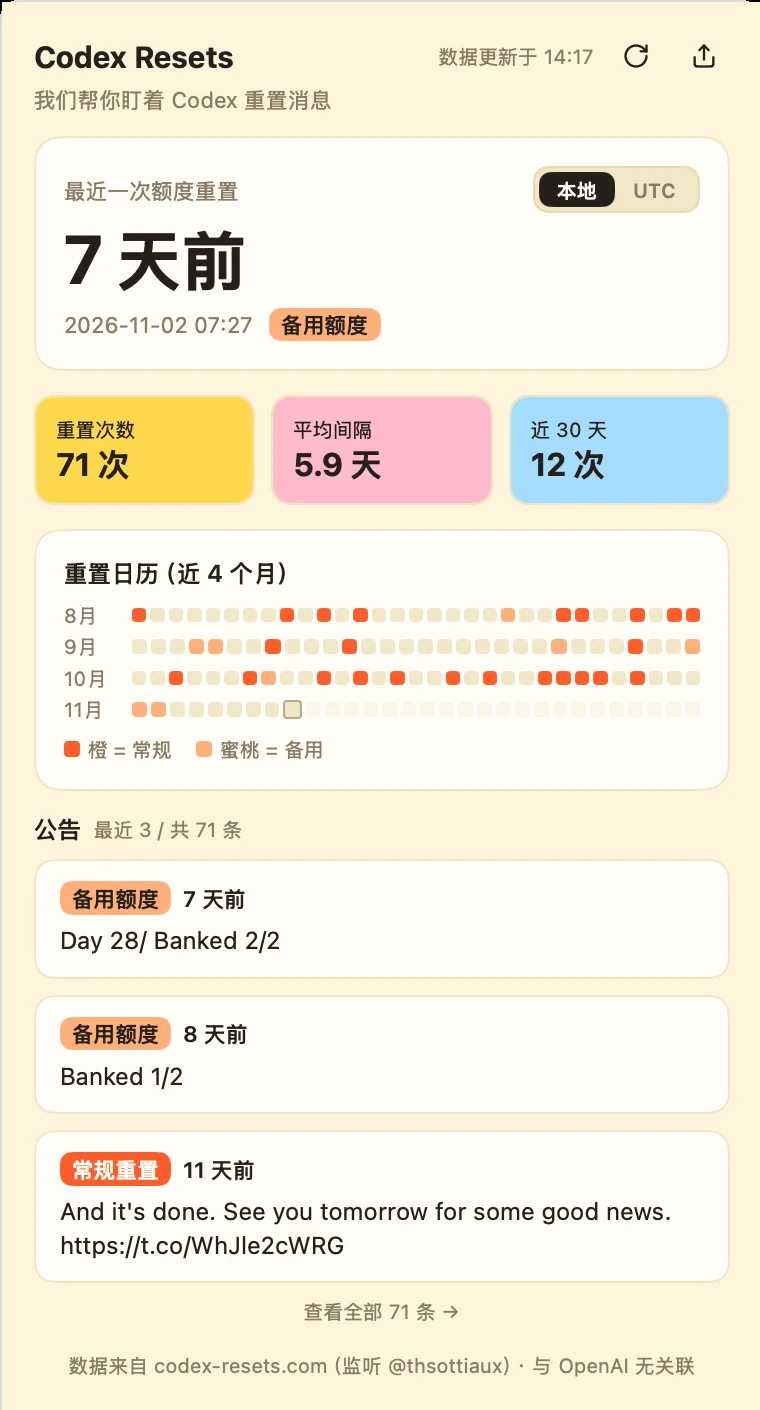
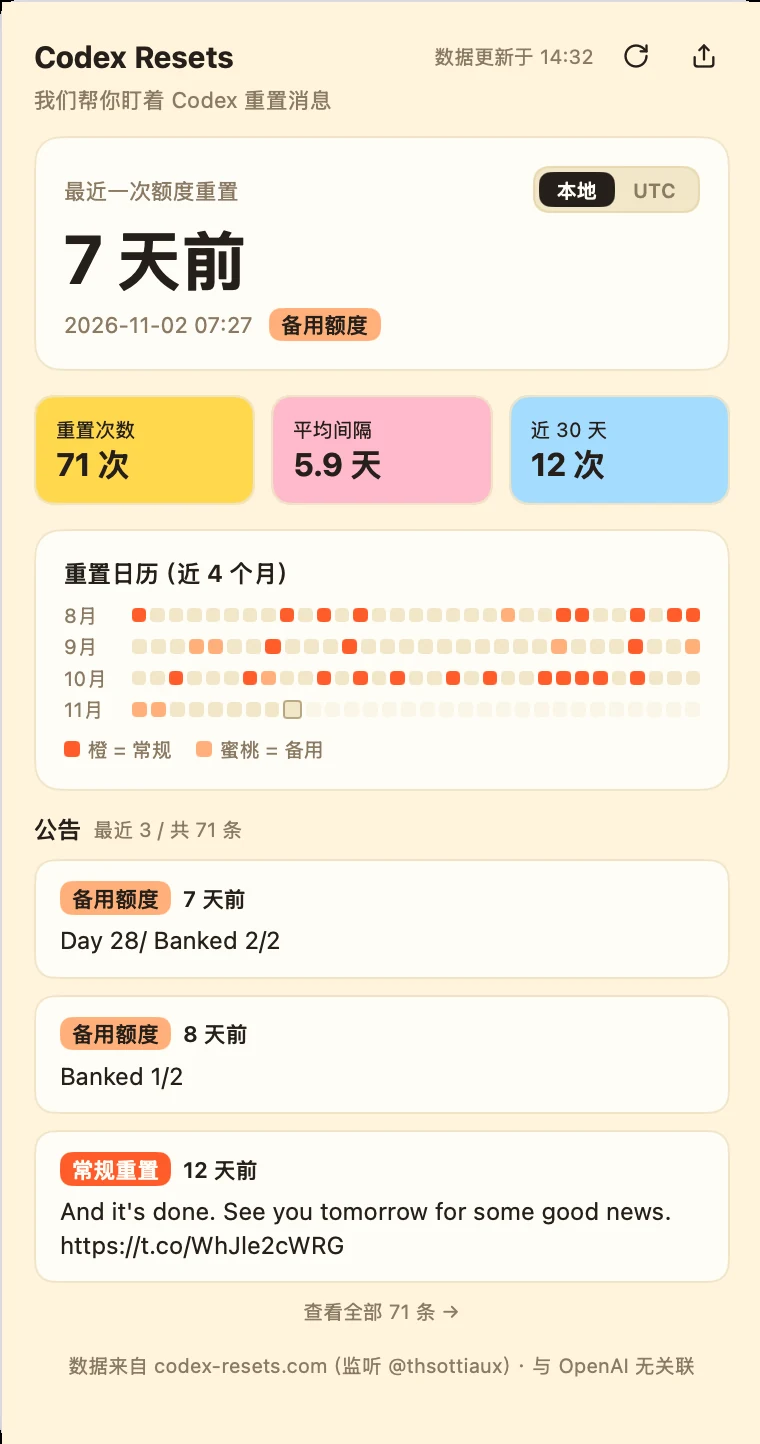
修复分享截图底部的系统灰边
分享态内层 Column 显式撑到 SHOT_HEIGHT，让奶油底铺满整个截图区域；
此前 600 以下的溢出部分没有背景，截图会露出窗口的系统灰底。

版本 0.1.4，中英文构建同步修复，两张截图已用渲染导出重出（760×1444，无灰边）。

diff --git a/README.md b/README.md
@@ -14,15 +14,15 @@ Two builds, identical panel behaviour, different interface language and runtime 
 
 | Build | Interface | Vue runtime from | Size |
 |---|---|---|---|
-| [`codex-resets-en.bar`](https://cdn.jsdelivr.net/gh/0tt0/codex-resets-bar@v0.1.3/codex-resets-en.bar) | English | jsDelivr | 32 KB |
-| [`codex-resets.bar`](https://cdn.jsdmirror.com/gh/0tt0/codex-resets-bar@v0.1.3/codex-resets.bar) | 中文 | JSDMirror | 32 KB |
+| [`codex-resets-en.bar`](https://cdn.jsdelivr.net/gh/0tt0/codex-resets-bar@v0.1.4/codex-resets-en.bar) | English | jsDelivr | 32 KB |
+| [`codex-resets.bar`](https://cdn.jsdmirror.com/gh/0tt0/codex-resets-bar@v0.1.4/codex-resets.bar) | 中文 | JSDMirror | 32 KB |
 
 Download the file and open it — Metrix.Bar registers the `.bar` file type, so it goes straight to the import confirmation.
 
 Or paste this into your browser's address bar:
 
 ```text
-metrixbar://install?url=https%3A%2F%2Fcdn.jsdelivr.net%2Fgh%2F0tt0%2Fcodex-resets-bar%40v0.1.3%2Fcodex-resets-en.bar&sha256=6e3233b23746948311e2a3d03d784745c512cf0f94ecf64e0ad93c9228d387de
+metrixbar://install?url=https%3A%2F%2Fcdn.jsdelivr.net%2Fgh%2F0tt0%2Fcodex-resets-bar%40v0.1.4%2Fcodex-resets-en.bar&sha256=85a45e9a0aefd0970abde97604c66049f30784815a85c72614cb6876d83b97c1
 ```
 
 GitHub strips custom URL schemes from rendered Markdown, so the link is copyable text rather than a clickable anchor. For the Chinese build, swap `jsdelivr.net` for `jsdmirror.com` and `codex-resets-en.bar` for `codex-resets.bar`.

diff --git a/README.zh-CN.md b/README.zh-CN.md
@@ -14,15 +14,15 @@ Codex 额度什么时候重置，你不用再盯着官网刷新。
 
 | 构建 | 界面 | Vue 运行时来自 | 大小 |
 |---|---|---|---|
-| [`codex-resets.bar`](https://cdn.jsdmirror.com/gh/0tt0/codex-resets-bar@v0.1.3/codex-resets.bar) | 中文 | JSDMirror（jsDelivr 国内镜像） | 32 KB |
-| [`codex-resets-en.bar`](https://cdn.jsdelivr.net/gh/0tt0/codex-resets-bar@v0.1.3/codex-resets-en.bar) | English | jsDelivr | 32 KB |
+| [`codex-resets.bar`](https://cdn.jsdmirror.com/gh/0tt0/codex-resets-bar@v0.1.4/codex-resets.bar) | 中文 | JSDMirror（jsDelivr 国内镜像） | 32 KB |
+| [`codex-resets-en.bar`](https://cdn.jsdelivr.net/gh/0tt0/codex-resets-bar@v0.1.4/codex-resets-en.bar) | English | jsDelivr | 32 KB |
 
 下载后打开即可：Metrix.Bar 已关联 `.bar` 文件类型，打开就进入导入确认。
 
 或者把直连导入命令粘到浏览器地址栏：
 
 ```text
-metrixbar://install?url=https%3A%2F%2Fcdn.jsdmirror.com%2Fgh%2F0tt0%2Fcodex-resets-bar%40v0.1.3%2Fcodex-resets.bar&sha256=3d9b8c4686d824b8be04bccffb38d47078be0d5ebd011f4b1ea6e1f4ec2bde58
+metrixbar://install?url=https%3A%2F%2Fcdn.jsdmirror.com%2Fgh%2F0tt0%2Fcodex-resets-bar%40v0.1.4%2Fcodex-resets.bar&sha256=88d682087b4eb91be78798b564e6abd4e94fb69bbaa1a20d7b1358f5942766dd
 ```
 
 GitHub 渲染 Markdown 时会剥离自定义协议，所以这里以可复制文本给出。想装英文版，把域名换成 `cdn.jsdelivr.net`、文件名换成 `codex-resets-en.bar`。
